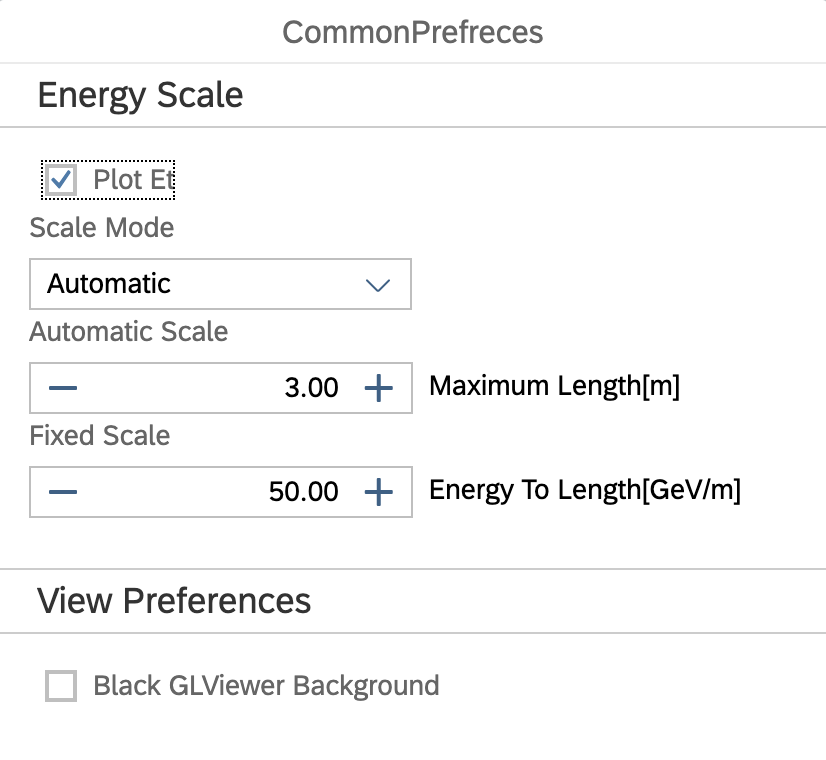
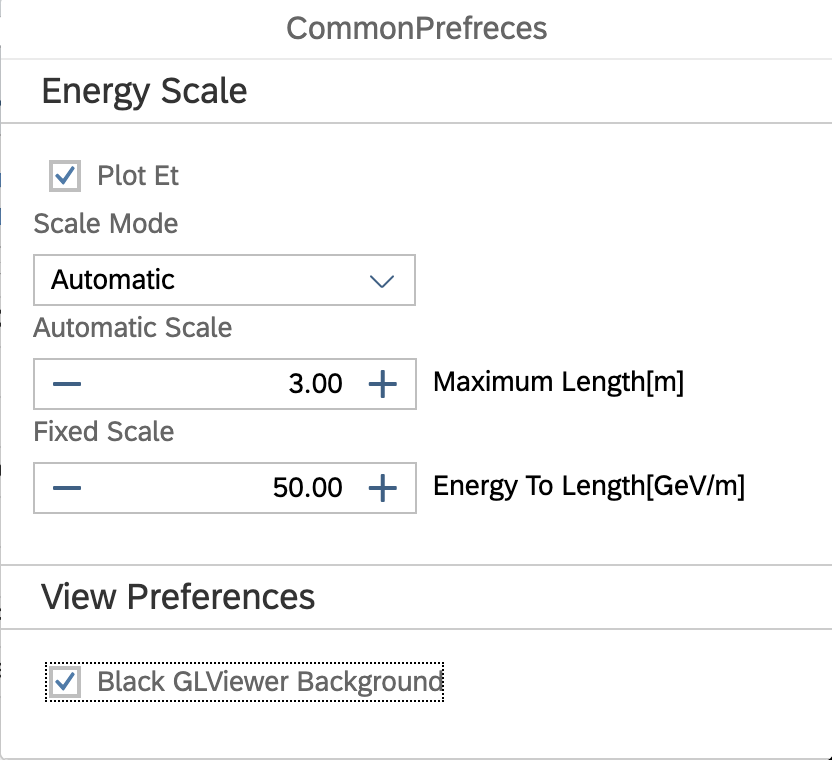
Update doc

diff --git a/Core/ui5/controller/FireworksMain.controller.js b/Core/ui5/controller/FireworksMain.controller.js
@@ -281,10 +281,10 @@ sap.ui.define(['rootui5/eve7/controller/Main.controller',
          MessageBox.information("Mail to: \nfireworks-support@cern.ch");
       },
       userGuide: function (oEvent) {
-         sap.m.URLHelper.redirect("https://github.com/alja/FireworksWeb/blob/master/doc/UserGuide.md#table-of-contents", true);
+         sap.m.URLHelper.redirect("https://github.com/alja/FireworksWeb/blob/main/doc/UserGuide.md#table-of-contents", true);
       },
       troubleshoot: function (oEvent) {
-         sap.m.URLHelper.redirect("https://github.com/alja/FireworksWeb/blob/master/doc/TroubleShooting.md", true);
+         sap.m.URLHelper.redirect("https://github.com/alja/FireworksWeb/blob/main/doc/TroubleShooting.md", true);
       },
 
       showFWLog: function () {

diff --git a/doc/UserGuide.md b/doc/UserGuide.md
@@ -4,11 +4,14 @@
 1. [Data File Access](#data)
 1. [Collections](#collections)
     1. [Collection Controller](#collection-controller)
-    2. [Object Controller](#example3)
-    2. [Add Collection Dialgo](#example3)
+    2. [Item Controller](#item-controller)
+    2. [Add Collection Dialog](#add-collection-controller)
 3. [Table View](#table-view)
 4. [Event Filter](#event-filter)
-5. [Advanced Options](#advanced-option)
+4. [Common Preferences](#common-preferences)
+    1. [Energy Scale](#energy-scale)
+    1. [Colors](#colors)
+5. [Advanced Options](#advanced-options)
 
 ---
 
@@ -39,14 +42,14 @@ Collection controlls are accessible in the left most part of the browser window.
 
 <img src="summary.png" height="420" style="align: left;  margin-left: 10px; " >
 
-### Collection Controller:
+### Collection Controller
 
 Editing Physics Collection filters and display properties
 The collection dialog can be accessed by clicking the *edit* button on the list-tree browser entry corresponding to the desired collection.
 
 <img src="collection.png" height="120" style="align: left;  margin-left: 10px; " >
 
-### Physics Object / Item Dialog
+### Item Controller
 
 Items in the collection can be edited as well. For the moment it is possible to manually set color, visibility, and examine the collection filter status for this item.
 
@@ -77,7 +80,7 @@ Event filtering is a powerful tool for selecting interesting events based on a c
 
 Each filter expression is interpreted by Root's !TTree::Draw(), and only events for which the expression is true are displayed. For convenience, collections are referred by names as displayed in Summary view (the list on the left side of the view). E.g. `$Jets` references `reco::Jet` collection which has been added to Fireworks. The TTree::Draw() support `@` notation to access the collection object. This is useful  when filter events by collection size.
 
-### Examples:
+### Examples
 
 ```$Electrons.pt() > 10``` Select events where there is at least one electron in the Electrons collection ("gsfElectrons" by default) with pT at least 10GeV.
 
@@ -91,20 +94,25 @@ Note: Not all collections are sorted, for example, Muons are not!
 <img src="eventfilter.png" height="420" alt="Filter options" style="align: center;">
 
 ## Common Preferences
-The Common Prefrences are avaialable avaialble though the main toolbar 'Edit' button. 
+The Common Prefrences are avaialable avaialble though the main toolbar 'Edit' button.
 
-### Global Energy Scale
+### Energy Scale
 In common preferences it is possible to control the global energy scale mode and parameters:
 
 Fixed mode: scale defined with [GeV] [m] conversion.
 Automatic mode: scale is different on each event, so that objects fill up the specified height.
 Combined mode: scaling is fixed as long it does not exceed given height, auto-scale is applied after that.
 
-<img src="preferences.png" height="320" alt="Filter options" style="align: center;">
+<img src="preferences.png" height="321" alt="Filter options" style="align: center;">
 
 Example of two RhoPhi views in the same event with fixed type scales: 10Gev/M (left) and 60 Gev/M scale.
 
 <img src="scale.png" height="340" alt="Energy scale" style="align: center;">
+
+### Colors
+At the moment only white GUI theme is avaialble.
+One can change only GL viwer background color throught the the prefrence dialog.
+Options to set geomtery colors will be added later.
 
 
 ## Advanced Options
